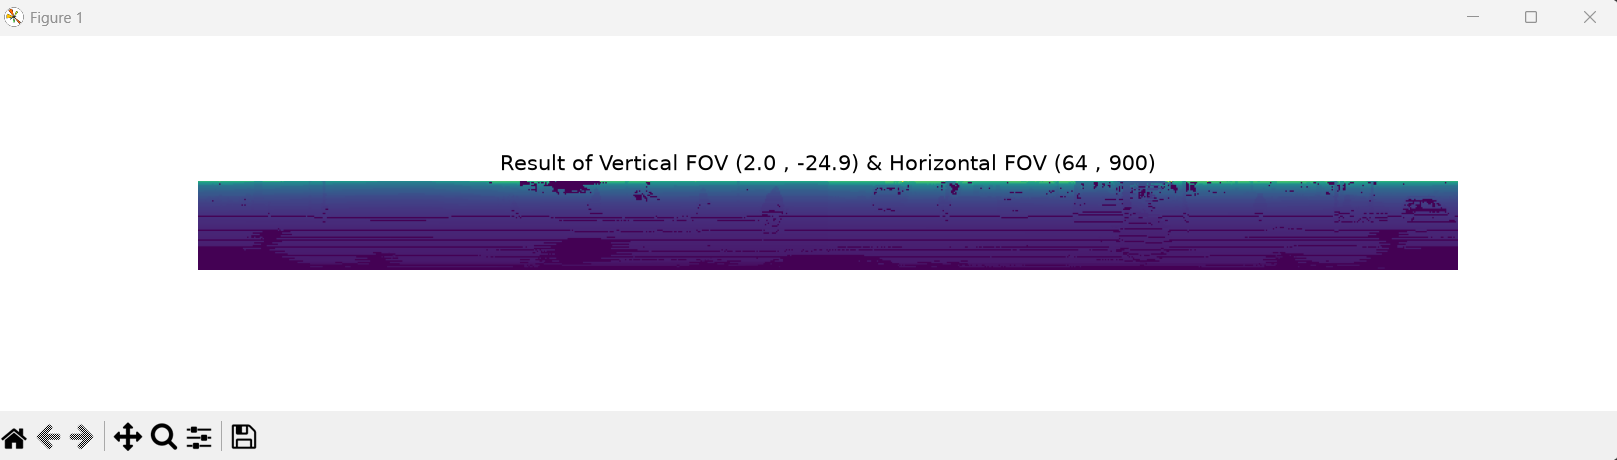
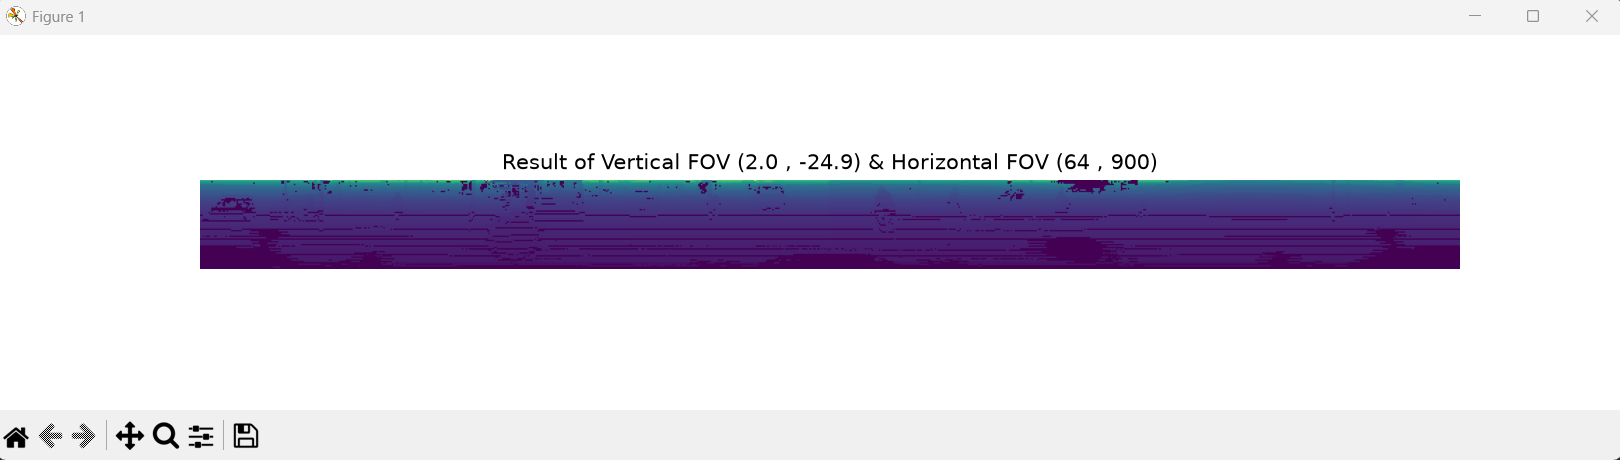
docs: 빈칸 채우기 좌우반전 수정

diff --git a/Task 2 - LiDAR range image generation/problem_2.py b/Task 2 - LiDAR range image generation/problem_2.py
@@ -31,7 +31,7 @@ def pointcloud_to_range_img(current_vertex, fov_up, fov_down, proj_H, proj_W, ma
     ############################# Problem ##############################
     
     # 1. LiDAR 센서 좌표계를 기준으로, 모든 point의 yaw 및 pitch 각도 구하기
-    yaw = -np.arctan2(scan_y, scan_x)
+    yaw = np.arctan2(scan_y, scan_x)
     pitch = np.arcsin(scan_z / depth)
 
     # 2. 3D point를 2D 이미지 좌표계로 투영했을 때의 픽셀 위치 구하기
@@ -61,38 +61,33 @@ def pointcloud_to_range_img(current_vertex, fov_up, fov_down, proj_H, proj_W, ma
 
 
 
+
 if __name__ == "__main__":
     # Spinning LiDAR FoV 설정 : Velodyne-HDL64e 모델 스펙 확인
     fov_up=2.0 
     fov_down=-24.9 
     proj_H=64 
     proj_W=900
-    
+
     # bin format -> numpy array
     lidar_points = load_from_bin('./0000000000.bin')
     
     # generate range image
+    
     range_img = pointcloud_to_range_img(lidar_points, fov_up, fov_down, proj_H, proj_W, max_range=150)
-    
-   # 1. 데이터가 없는 부분(-1)을 제외하고 마스킹 (데이터가 0보다 큰 곳만 찾음)
-    mask = range_img > 0
-    
-    # 2. Min-Max Normalization 적용 (README 수식 구현)
-    min_val = np.min(range_img[mask])
-    max_val = np.max(range_img[mask])
-    range_img[mask] = (range_img[mask] - min_val) / (max_val - min_val + 1e-6)
-    
-    # 3. 데이터가 없는 곳(-1)은 다시 투명하게 만들거나 잘 보이게 설정 (0으로 만듦)
-    range_img[~mask] = 0
-    # -----------------------------
-    
+
     # display result image
-    plt.subplots(1,1, figsize = (13,3) )
-    plt.title("Result of Vertical FOV ({} , {}) & Horizontal FOV ({} , {})".format(fov_up, fov_down, proj_H, proj_W))
     
-    # 'cmap'을 'jet'로 설정해서 무지개색으로 예쁘게 뽑아보세요!
-    plt.imshow(range_img, cmap='jet') 
+    plt.subplots(1,1, figsize = (13,3) )
+
+    plt.title("Result of Vertical FOV ({} , {}) & Horizontal FOV ({} , {})".format(fov_up, fov_down, proj_H, proj_W))
+
+    plt.imshow(range_img)
+
     plt.axis('off')
     plt.show()
+
+
+    print(range_img.shape) 
 
     

diff --git a/Task 2 - LiDAR range image generation/README.md b/Task 2 - LiDAR range image generation/README.md
@@ -79,11 +79,11 @@ $$v = \left[ 1 - (\arcsin(z r^{-1}) + |f_{\text{down}}|) f^{-1} \right] h$$
 LiDAR 센서의 3D 좌표 $(x, y, z)$를 활용해 각 포인트의 수평/수직 각도를 계산합니다.
 
 ```python
-yaw = -np.arctan2(scan_y, scan_x)
+yaw = np.arctan2(scan_y, scan_x)
 pitch = np.arcsin(scan_z / depth)
 ```
 * **yaw (방위각): * 역할: $xy$ 평면상의 수평 회전각.**
-  - 구현 논리: np.arctan2(y, x)로 산출된 값에 마이너스(-) 부호를 적용하였습니다. 센서의 회전 방향과 이미지 가로 인덱스 증가 방향을 동기화하여 좌우 반전 없이 투영하기 위함입니다.
+  - 구현 논리: np.arctan2(y, x)를 사용하여 방위각을 산출하였습니다. 이후 $u$ 좌표를 매핑하는 공식(1.0 - yaw / np.pi) 내부에 이미 yaw의 부호를 반전시키는 뺄셈이 포함되어 있습니다. 따라서 yaw 산출 시 별도의 마이너스(-) 부호를 붙이지 않아야 실제 3D 공간의 좌우 방향이 2D 이미지의 픽셀 가로 방향과 올바르게 동기화되어 좌우 반전 현상을 방지할 수 있습니다.
 
 * **pitch (고각): * 역할: 센서 수평선 기준의 수직 고각.**
   - 구현 논리: 높이(scan_z)와 거리(depth)를 사용하여 삼각함수 arcsin으로 산출합니다. 이는 3D상의 높이 정보를 2D 이미지의 세로축 정보로 변환하는 기초 데이터가 됩니다.